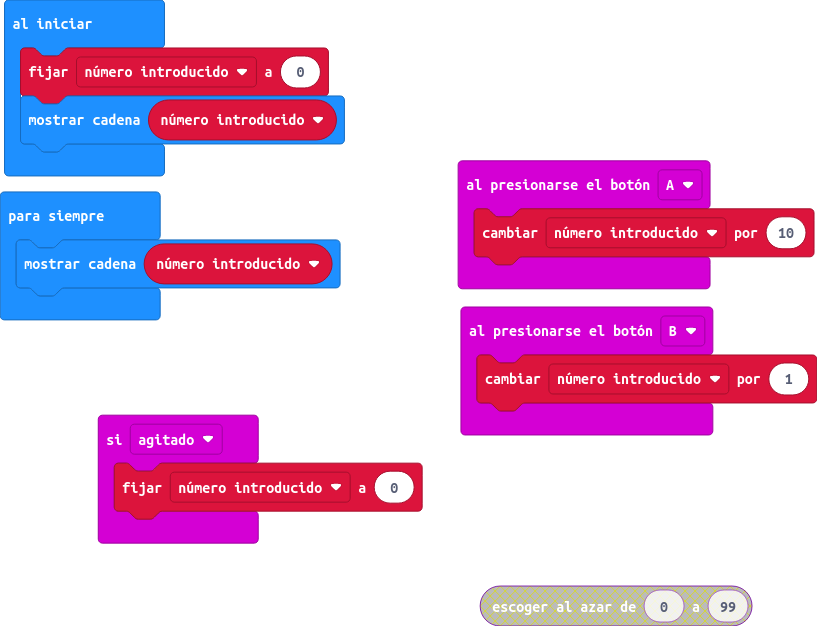
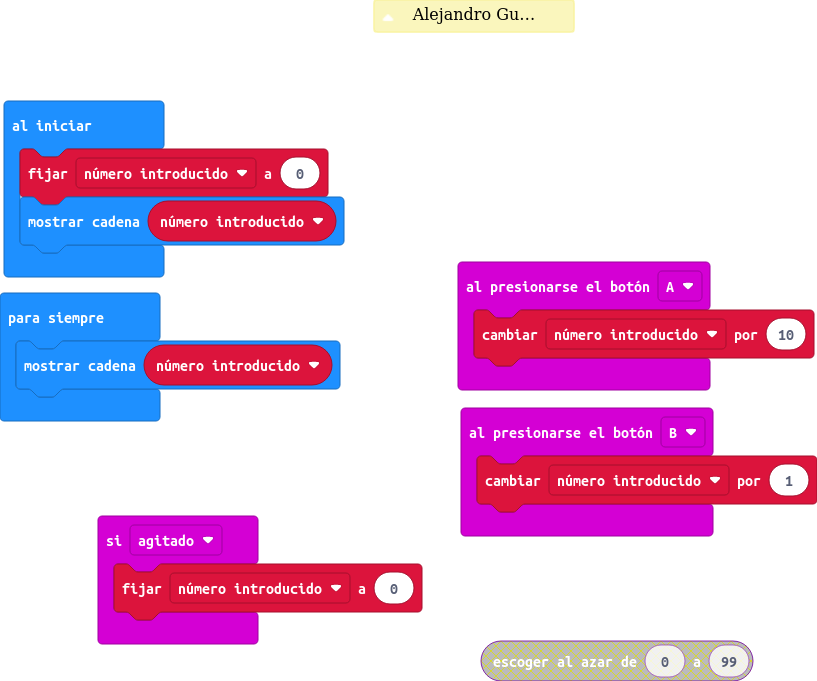
Actualizar main.blocks, main.ts

diff --git a/main.ts b/main.ts
@@ -1,3 +1,6 @@
+/**
+ * Alejandro Guijarro Delgado S2A
+ */
 input.onButtonPressed(Button.A, function () {
     número_introducido += 10
 })
